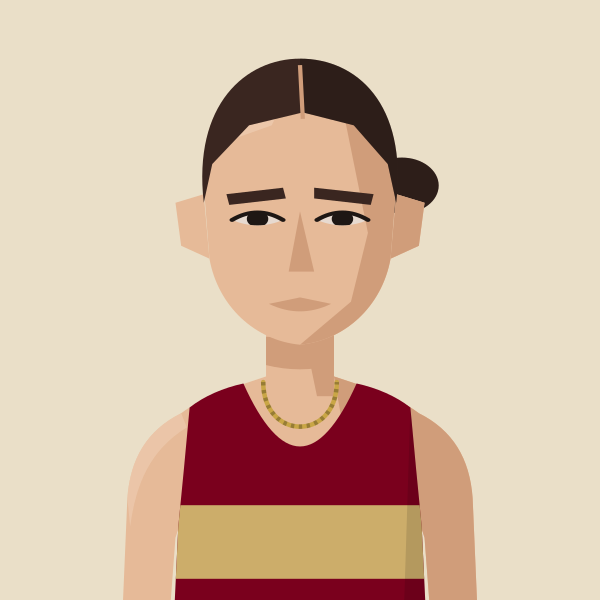
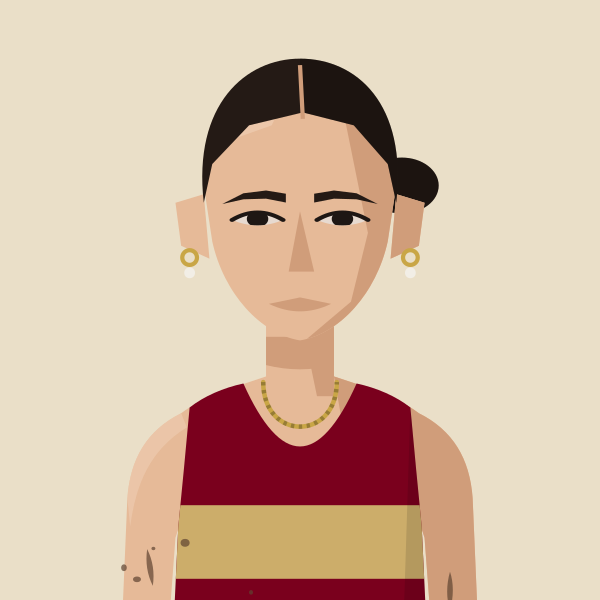
Redraw Mimi Corden-Lloyd: tapered brows, hoop and pearl earrings, narrow face, light mud
Claude-Session: https://claude.ai/code/session_01MgmDWhFqnSSnP4iBLKXUZC

diff --git a/files/index.html b/files/index.html
@@ -718,7 +718,7 @@ return m;})();
 const portraitFile=(name,club)=>{const k=normalizeNameForCompare(name||'').replace(/\s*\(([^)]*)\)$/,(m,c)=>CLUBS[c.toUpperCase()]?'':m);const a=PORTRAITS[k];if(a&&a.club===club)return a.file;const b=PORTRAITS[k+'@'+club];return b?b.file:null;};
 // Athlete header figure: superstar portrait if we have one, else a grey runner in the club vest, else the plain vest icon
 // Changes whenever any portrait changes (set by tools/build_og.py), so browsers fetch fresh images instead of old cached ones
-const PORTRAIT_V='2137e9cf';const PORTRAIT_WOMEN='abbey-brooke,abbie-bulbulian,adele-prince,aimee-hargreaves,aisling-ahern,alex-brown,alex-gandee,alex-marginean,alex-miller,alexa-parker,alexandra-barbour,alice-braham,alice-bridger-morales,alice-crane,alice-martin,alice-reed,alice-smith,alison-purnell,alison-thomson,amy-clements,andrea-barber,anika-schwarze-chintapatla,anna-garnier,anna-garnier-hw,anna-sharp,annabel-hobday,annabelle-hadlow,anne-hegvold,annmarie-seymour,ava-mcandie,becky-briggs,bethan-goddard,bethanie-murray,bethany-brown,betsy-griffiths,billie-mcclosky,camilla-barden,caoimhe-nic-fhogartaigh,carolyne-baxter,catherine-bryson,catherine-eastham,catherine-kandie,cathy-ansell,charlotte-griffiths,chloe-beckett,chloe-tighe,chrissie-wellington,claire-grima,clara-pettit,clare-elms,clare-pauzers,dillan-quinn,dorchie-cockerell,eilidh-hide,elinor-skinner,eliza-grant,elizabeth-apsley,elizabeth-stavreski,ella-fennelly,ella-king-powrie,ella-may-hards,ella-newton,ellie-brown,ellie-freeden,eloise-bull,emilie-arnoux,emily-barrett,emily-bradley,emily-lowery,emily-robbins,emma-gordon,emma-howsham,emma-lord,emma-rowland,estle-viljoen,evie-warren,felicity-cole,felicity-harrison,felicity-hayward,fi-maddocks,fiona-de-mauny,florence-wiggins,gabby-collison,gabriel-reynolds,gemma-newport,genevieve-blanch,georgia-curry,georgie-bruinvels,georgie-fenn,georgie-furze,georgie-grgec,gina-galbraith,grace-leyland,grace-richardson,hannah-edwards,hannah-english,heather-statham,heather-statham-cc,helena-corbin,helena-keenan,holly-nixon,holly-pan,imogen-mackie,imogen-wolsey,iona-cousland,isabel-bradley,isabel-brinsden,isabelle-pickett,isobel-hodder,jennifer-nandi,jennifer-smith,jess-reed,jess-saunders,jess-winfield,jessica-davies,jessica-lowe,jodie-favell,josephine-rhodes,julia-bleasdale,julia-wedmore,juliet-hodder,jurgita-levertaviciute,justine-lynch,karen-fenner,karen-xiang,karina-box,kate-axford,kate-williams,kathy-sharpe,katie-ellen-french,katie-good,katie-snowden,katy-hedgethorne,kitty-shepherd-cross,kristina-popadich,lara-bromilow,lara-mangan,laura-goodson,laura-miles,lauren-major,lea-adamson,lily-newton,lisa-bailey,lisa-thomas,lisa-thomas-hw,lizzie-goldie-scot,louise-cooper,lucy-jones,lucy-macalister,lucy-peters,lydia-blackmore,lydia-gallyer-barnett,maddie-mastrolonardo,maddy-whitman,maeve-kenny,margaret-coogan,martina-conner,mary-james,mary-setyabule,matilde-lomba,megan-gildea,mhairi-hall,mimi-corden-lloyd,molly-oconnor,molly-smith,monika-gajek,naomi-lenane,natalie-beadle,natalie-seymour,natasha-lodge,niamh-thompson,nicky-hayes,nicola-cartlidge,nicola-douglas,nikki-sturzaker,olivia-papaioannou,olivia-stillman,orna-mcginley,pamela-mchutchon,patricia-walker,patrizia-gnoato,penny-oliver,rachel-brown,rebecca-barrow,rebekah-edgar,ruby-carter,ruby-whyte-wilding,ruby-woolfe,sally-urquhart,sam-whiting,samantha-munday,sarah-astin,sarah-dewhirst,sarah-grover,sarah-hanley,sarah-holt,sarah-murphy,sarah-palmer,sarah-palmer-ran,sarah-riceman,sarah-young,saron-haileselase,serena-carter,sophie-cowper,sophie-harris,sophie-hicks,sophie-tooley,stacey-ward,steph-hewitt,steph-mccall,steph-mccall-cc,steph-mccall-slh,steph-mitchell,suzanne-swaine,suze-spalding,suzie-harvey,suzy-whatmough,teresa-murphy,tilly-heaton,tilly-heaton-bel,tish-jones,vic-cartwright,vicky-clarke,victoria-barthelmess,victoria-buck,vikki-filsell,zoe-macdonald,zuzana-nemeckova';const PORTRAIT_MEN='aaron-wilson,abdulla-elsadig,adam-leane,adrian-major,adrien-royer,alan-black,alan-mead,alex-brecker,alex-bruce-littlewood,alex-gutteridge,alex-harris,alex-howard,alex-janiaud,alex-lee,alex-lennon,alex-mills,alex-milne,alex-morales,alex-robinson,alex-yee,alexander-marks,amittai-ben-israel,andrew-cumine,andrew-green,andrew-penney,andrew-perfect,andrew-simms,andrew-warburton,andrius-jaksevicius,andy-coley-maud,andy-coley-maud-cc,andy-fyfe,andy-north,andy-paton,andy-weir,angus-butler,angus-lamb,anisse-ismaili,arlo-ludewick,arne-dumez,arthur-peel,ashley-goncalves,barnaby-day,barry-collins,barry-sawyer,ben-clarke,ben-harding,ben-hurley,ben-ireland,ben-millar,ben-paviour,ben-pearce,ben-racle,ben-revill,ben-reynolds,ben-scott,ben-toomer,benedict-whitby,benjamin-hilson,bernie-ford,bill-kerr,bill-weller,bill-weller-wal,bob-harrison,bob-holt,bob-lunnon,bob-rayman,bob-smith,bradley-courtney-pinn,brandon-dewar,brian-gorman,brian-wilder,caleb-hathaway,callum-stewart,cameron-dockerill,cameron-reilly,carl-delaney,charles-herrington,charlie-dabbs,charlie-dickinson,charlie-eastaugh,charlie-manning,charlie-pickett,charlie-rogers,charlie-sandison,charlie-walker,charlie-wyllie,che-compton,chris-busaileh,chris-busaileh-hhh,chris-greenwood,chris-keavey,chris-moss,chris-steer,chris-threadgold,chris-warren,christian-lee,christopher-parker,clive-gilby,clive-shippen,colin-high,colin-pearson,conall-mcnally,conall-whelan,craig-ruddy,dame-dibaba,dan-cliffe,dan-pettitt,daniel-shaw,daniel-wolff,dave-beard,dave-beaver,dave-glassborow,dave-holt,dave-taylor,david-anderson,david-bowers,david-grima,david-north,david-ogden,david-symons,david-walsh,david-williams,deron-fagan,dick-piotrowski,dimos-evangelidis,dominic-kiralyfi,don-anderson,don-faircloth,don-maclean,doug-maughan,duncan-rimmer,dylan-evans,dylan-mitchard,ed-brewer,ed-catmur,ed-gibson,ed-mallett,eddie-herridge,eddie-jodrell,eddie-rolls,edward-chuck,eoin-brady,eoin-molloy,ethan-mccolgan,falilou-kebe,findlay-dyer,finn-johnson,fintan-pearce,frank-tickner,frank-ward,fred-paget,fred-slemeck,freddie-hessian,garret-lee,gary-ribbons,gary-ribbons-ee,gary-staines,gavin-eccles,geoff-biscoe,geoff-jerwood,geoff-north,george-cotton,george-gathercole,george-jackson,george-loxton,george-mallett,george-ogden,gerry-adams,gerry-north,glen-keegan,gordon-pearce,graham-macky,harrison-hayman,harry-guttridge,hector-revill,henry-hart,henry-silverstein,hugo-hewitt,ian-acreman,ian-crowe-wright,ian-ellwood,ian-harkness,indy-barnes,isaac-lutaya,isaac-parker,jack-brotchie,jack-dickson,jack-dormer,jack-hampshire,jack-harrison,jack-hobden,jack-kavanagh,jack-millar,jack-ramm,jack-woods,jacob-brockmann,jake-simmonds,james-bartram,james-blackwood,james-bowler,james-estall,james-ewing,james-fox,james-hancock,james-harvey,james-hoad,james-kelly,james-mcmullan,james-murray,james-nutt,james-preston,james-roberts,james-stockings,james-ward,james-wootton,jamie-crowe,jamie-parkinson,jared-martin,jean-paul-wright,jeff-cunningham,jeremy-dempsey,jermaine-mays,jerry-watson,jim-allchin,jim-rimmer,joe-english,joe-hartley,john-baker,john-bicourt,john-bromley,john-davies,john-dear,john-foss,john-foxall,john-gilbert,john-gladwin,john-hutchins,john-kendall,john-kimaiyo,john-lee,john-lethbridge,john-mather,john-moore,john-roberts,john-sanderson,john-stow,john-sullivan,john-thresher,jon-hobbs,jon-pepper,jon-pepper-slh,jon-phillips,jon-solly,jonathan-cocker,jonathan-collier,jonathan-cornish,jonathan-ratcliffe,jonathan-tipper,jonathon-blackledge,jonny-neville,jonny-scott,jordan-weaver,josh-mitchell,josh-snow,josh-trigwell,jules-gevers,junior-galley,justin-chaston,justin-reid,kassa-tadesse,keith-newton,kevin-nash,kevin-quinn,kevin-sturman,kieran-barnes,kieran-white,knut-hegvold,knut-hegvold-bel,larry-ryan,lawrence-avery,lee-lintern,lewis-lloyd,liam-burthem,lionel-mann,lloyd-kempson,luke-caldwell,mack-downie,malachi-byansi,marcello-bizio,marcelo-fortes,marco-mazzotta,mark-anderson,mark-miles,mark-sinclair,mark-tennyson,mark-waller,martin-dent,martin-lake,martin-lewington,martin-shore,mathew-speed,matt-chaston,matt-jones,matt-wood,matthew-edgar,matthew-houchell,matthew-thomas,matthew-varley,max-bloor,max-heyden,max-milarvie,max-nicholls,michael-baker,michael-mccarthy,mick-woods,mike-beevor,mike-boyle,mike-cummings,mike-farmery,mike-fuller,mike-hayes,mike-kortenray,mike-nouch,mohammed-ismail,monty-hudson,morgan-roberts,nathan-visick,neil-chisholm,neil-phillips,neil-speaight,neil-wilson,nic-lukies,nick-acfield,nick-altmann,nick-bester,nick-bester-hhh,nick-buckle,nick-bundle,nick-goolab,nick-lightfoot,nick-morris,nick-torry,noah-fernandez,norman-stairs,oli-carrington,oliver-carrington,oliver-fox,oliver-reynolds,oliver-young,ollie-foote,ollie-garrod,olly-buck,owen-hind,paddy-roddy,pancho-panchev,paskar-owor,pat-newell,patrick-mcdougall,paul-calver,paul-cheetham,paul-freary,paul-magner,paul-pollock,pete-carton,pete-gardner,peter-clarke,peter-giles,peter-giles-thh,peter-lighting,phil-carstairs,phil-sanders,phil-sesemann,phil-swinburn,phil-wicks,phil-woodford-smith,raj-paranandi,ralph-street,ranjit-bhatia,ray-foley,reece-edwards,rhys-boorman,rian-mccawley,richard-ashe,richard-giles,richard-henderson,richard-langley,richard-mcdowell,richard-ollington,richard-partridge,richard-sun,richard-ward,rob-armstrong,rob-kelly,rob-tuer,robert-elphick,robert-laing,robert-norville,robert-peacock,robert-sesemann,robin-boon,robin-hudson,roger-alsop,roger-alsop-bel,ron-clark,ron-linstead,ronan-tanguy,rory-mcmahon,rory-orsborn,ross-christie,rowan-board,rowan-crichton,russell-dessaix-chin,ryan-hickey,ryan-mccallister,sam-bramwell,sam-charlton,sam-gebreselassie,sam-peters,sam-sommerville,sam-tyas,samuel-dames,samuel-wilcock,sean-cordon,sebastian-anthony,simon-baines,simon-coombes,simon-coppard,simon-holmes,simon-rayner,simon-rayner-hw,simon-wade,simon-wade-hhh,simon-waterhouse,simon-williams,simon-wurr,sonny-nicoll,spencer-barden,stephen-mcleod,stephen-sharp,steve-gardner,steve-jones,steve-smythe,steve-smythe-hhh,stuart-beaney,stuart-major,stuart-major-thh,stuart-mccallum,stuart-paton,terry-booth,thomas-dugre,thomas-gandee,thomas-gardner,thomas-renshaw,tim-alexander,tim-eglen,tim-lawrence,tim-watson,toby-cooke,toby-fletcher,tom-austin,tom-cheetham,tom-conlon,tom-davies,tom-gifford,tom-jervis,tom-lole,tom-south,tom-thornley,tommy-taylor,tony-binda,tony-fairclough,tony-harran,trevor-hart,valdis-pauzers,valentin-rigori,vic-maughan,will-cockerell,will-lewis,will-marshall,will-scott,will-stockley,william-gardner,yacin-yusuf,zach-nolan';
+const PORTRAIT_V='cd870613';const PORTRAIT_WOMEN='abbey-brooke,abbie-bulbulian,adele-prince,aimee-hargreaves,aisling-ahern,alex-brown,alex-gandee,alex-marginean,alex-miller,alexa-parker,alexandra-barbour,alice-braham,alice-bridger-morales,alice-crane,alice-martin,alice-reed,alice-smith,alison-purnell,alison-thomson,amy-clements,andrea-barber,anika-schwarze-chintapatla,anna-garnier,anna-garnier-hw,anna-sharp,annabel-hobday,annabelle-hadlow,anne-hegvold,annmarie-seymour,ava-mcandie,becky-briggs,bethan-goddard,bethanie-murray,bethany-brown,betsy-griffiths,billie-mcclosky,camilla-barden,caoimhe-nic-fhogartaigh,carolyne-baxter,catherine-bryson,catherine-eastham,catherine-kandie,cathy-ansell,charlotte-griffiths,chloe-beckett,chloe-tighe,chrissie-wellington,claire-grima,clara-pettit,clare-elms,clare-pauzers,dillan-quinn,dorchie-cockerell,eilidh-hide,elinor-skinner,eliza-grant,elizabeth-apsley,elizabeth-stavreski,ella-fennelly,ella-king-powrie,ella-may-hards,ella-newton,ellie-brown,ellie-freeden,eloise-bull,emilie-arnoux,emily-barrett,emily-bradley,emily-lowery,emily-robbins,emma-gordon,emma-howsham,emma-lord,emma-rowland,estle-viljoen,evie-warren,felicity-cole,felicity-harrison,felicity-hayward,fi-maddocks,fiona-de-mauny,florence-wiggins,gabby-collison,gabriel-reynolds,gemma-newport,genevieve-blanch,georgia-curry,georgie-bruinvels,georgie-fenn,georgie-furze,georgie-grgec,gina-galbraith,grace-leyland,grace-richardson,hannah-edwards,hannah-english,heather-statham,heather-statham-cc,helena-corbin,helena-keenan,holly-nixon,holly-pan,imogen-mackie,imogen-wolsey,iona-cousland,isabel-bradley,isabel-brinsden,isabelle-pickett,isobel-hodder,jennifer-nandi,jennifer-smith,jess-reed,jess-saunders,jess-winfield,jessica-davies,jessica-lowe,jodie-favell,josephine-rhodes,julia-bleasdale,julia-wedmore,juliet-hodder,jurgita-levertaviciute,justine-lynch,karen-fenner,karen-xiang,karina-box,kate-axford,kate-williams,kathy-sharpe,katie-ellen-french,katie-good,katie-snowden,katy-hedgethorne,kitty-shepherd-cross,kristina-popadich,lara-bromilow,lara-mangan,laura-goodson,laura-miles,lauren-major,lea-adamson,lily-newton,lisa-bailey,lisa-thomas,lisa-thomas-hw,lizzie-goldie-scot,louise-cooper,lucy-jones,lucy-macalister,lucy-peters,lydia-blackmore,lydia-gallyer-barnett,maddie-mastrolonardo,maddy-whitman,maeve-kenny,margaret-coogan,martina-conner,mary-james,mary-setyabule,matilde-lomba,megan-gildea,mhairi-hall,mimi-corden-lloyd,molly-oconnor,molly-smith,monika-gajek,naomi-lenane,natalie-beadle,natalie-seymour,natasha-lodge,niamh-thompson,nicky-hayes,nicola-cartlidge,nicola-douglas,nikki-sturzaker,olivia-papaioannou,olivia-stillman,orna-mcginley,pamela-mchutchon,patricia-walker,patrizia-gnoato,penny-oliver,rachel-brown,rebecca-barrow,rebekah-edgar,ruby-carter,ruby-whyte-wilding,ruby-woolfe,sally-urquhart,sam-whiting,samantha-munday,sarah-astin,sarah-dewhirst,sarah-grover,sarah-hanley,sarah-holt,sarah-murphy,sarah-palmer,sarah-palmer-ran,sarah-riceman,sarah-young,saron-haileselase,serena-carter,sophie-cowper,sophie-harris,sophie-hicks,sophie-tooley,stacey-ward,steph-hewitt,steph-mccall,steph-mccall-cc,steph-mccall-slh,steph-mitchell,suzanne-swaine,suze-spalding,suzie-harvey,suzy-whatmough,teresa-murphy,tilly-heaton,tilly-heaton-bel,tish-jones,vic-cartwright,vicky-clarke,victoria-barthelmess,victoria-buck,vikki-filsell,zoe-macdonald,zuzana-nemeckova';const PORTRAIT_MEN='aaron-wilson,abdulla-elsadig,adam-leane,adrian-major,adrien-royer,alan-black,alan-mead,alex-brecker,alex-bruce-littlewood,alex-gutteridge,alex-harris,alex-howard,alex-janiaud,alex-lee,alex-lennon,alex-mills,alex-milne,alex-morales,alex-robinson,alex-yee,alexander-marks,amittai-ben-israel,andrew-cumine,andrew-green,andrew-penney,andrew-perfect,andrew-simms,andrew-warburton,andrius-jaksevicius,andy-coley-maud,andy-coley-maud-cc,andy-fyfe,andy-north,andy-paton,andy-weir,angus-butler,angus-lamb,anisse-ismaili,arlo-ludewick,arne-dumez,arthur-peel,ashley-goncalves,barnaby-day,barry-collins,barry-sawyer,ben-clarke,ben-harding,ben-hurley,ben-ireland,ben-millar,ben-paviour,ben-pearce,ben-racle,ben-revill,ben-reynolds,ben-scott,ben-toomer,benedict-whitby,benjamin-hilson,bernie-ford,bill-kerr,bill-weller,bill-weller-wal,bob-harrison,bob-holt,bob-lunnon,bob-rayman,bob-smith,bradley-courtney-pinn,brandon-dewar,brian-gorman,brian-wilder,caleb-hathaway,callum-stewart,cameron-dockerill,cameron-reilly,carl-delaney,charles-herrington,charlie-dabbs,charlie-dickinson,charlie-eastaugh,charlie-manning,charlie-pickett,charlie-rogers,charlie-sandison,charlie-walker,charlie-wyllie,che-compton,chris-busaileh,chris-busaileh-hhh,chris-greenwood,chris-keavey,chris-moss,chris-steer,chris-threadgold,chris-warren,christian-lee,christopher-parker,clive-gilby,clive-shippen,colin-high,colin-pearson,conall-mcnally,conall-whelan,craig-ruddy,dame-dibaba,dan-cliffe,dan-pettitt,daniel-shaw,daniel-wolff,dave-beard,dave-beaver,dave-glassborow,dave-holt,dave-taylor,david-anderson,david-bowers,david-grima,david-north,david-ogden,david-symons,david-walsh,david-williams,deron-fagan,dick-piotrowski,dimos-evangelidis,dominic-kiralyfi,don-anderson,don-faircloth,don-maclean,doug-maughan,duncan-rimmer,dylan-evans,dylan-mitchard,ed-brewer,ed-catmur,ed-gibson,ed-mallett,eddie-herridge,eddie-jodrell,eddie-rolls,edward-chuck,eoin-brady,eoin-molloy,ethan-mccolgan,falilou-kebe,findlay-dyer,finn-johnson,fintan-pearce,frank-tickner,frank-ward,fred-paget,fred-slemeck,freddie-hessian,garret-lee,gary-ribbons,gary-ribbons-ee,gary-staines,gavin-eccles,geoff-biscoe,geoff-jerwood,geoff-north,george-cotton,george-gathercole,george-jackson,george-loxton,george-mallett,george-ogden,gerry-adams,gerry-north,glen-keegan,gordon-pearce,graham-macky,harrison-hayman,harry-guttridge,hector-revill,henry-hart,henry-silverstein,hugo-hewitt,ian-acreman,ian-crowe-wright,ian-ellwood,ian-harkness,indy-barnes,isaac-lutaya,isaac-parker,jack-brotchie,jack-dickson,jack-dormer,jack-hampshire,jack-harrison,jack-hobden,jack-kavanagh,jack-millar,jack-ramm,jack-woods,jacob-brockmann,jake-simmonds,james-bartram,james-blackwood,james-bowler,james-estall,james-ewing,james-fox,james-hancock,james-harvey,james-hoad,james-kelly,james-mcmullan,james-murray,james-nutt,james-preston,james-roberts,james-stockings,james-ward,james-wootton,jamie-crowe,jamie-parkinson,jared-martin,jean-paul-wright,jeff-cunningham,jeremy-dempsey,jermaine-mays,jerry-watson,jim-allchin,jim-rimmer,joe-english,joe-hartley,john-baker,john-bicourt,john-bromley,john-davies,john-dear,john-foss,john-foxall,john-gilbert,john-gladwin,john-hutchins,john-kendall,john-kimaiyo,john-lee,john-lethbridge,john-mather,john-moore,john-roberts,john-sanderson,john-stow,john-sullivan,john-thresher,jon-hobbs,jon-pepper,jon-pepper-slh,jon-phillips,jon-solly,jonathan-cocker,jonathan-collier,jonathan-cornish,jonathan-ratcliffe,jonathan-tipper,jonathon-blackledge,jonny-neville,jonny-scott,jordan-weaver,josh-mitchell,josh-snow,josh-trigwell,jules-gevers,junior-galley,justin-chaston,justin-reid,kassa-tadesse,keith-newton,kevin-nash,kevin-quinn,kevin-sturman,kieran-barnes,kieran-white,knut-hegvold,knut-hegvold-bel,larry-ryan,lawrence-avery,lee-lintern,lewis-lloyd,liam-burthem,lionel-mann,lloyd-kempson,luke-caldwell,mack-downie,malachi-byansi,marcello-bizio,marcelo-fortes,marco-mazzotta,mark-anderson,mark-miles,mark-sinclair,mark-tennyson,mark-waller,martin-dent,martin-lake,martin-lewington,martin-shore,mathew-speed,matt-chaston,matt-jones,matt-wood,matthew-edgar,matthew-houchell,matthew-thomas,matthew-varley,max-bloor,max-heyden,max-milarvie,max-nicholls,michael-baker,michael-mccarthy,mick-woods,mike-beevor,mike-boyle,mike-cummings,mike-farmery,mike-fuller,mike-hayes,mike-kortenray,mike-nouch,mohammed-ismail,monty-hudson,morgan-roberts,nathan-visick,neil-chisholm,neil-phillips,neil-speaight,neil-wilson,nic-lukies,nick-acfield,nick-altmann,nick-bester,nick-bester-hhh,nick-buckle,nick-bundle,nick-goolab,nick-lightfoot,nick-morris,nick-torry,noah-fernandez,norman-stairs,oli-carrington,oliver-carrington,oliver-fox,oliver-reynolds,oliver-young,ollie-foote,ollie-garrod,olly-buck,owen-hind,paddy-roddy,pancho-panchev,paskar-owor,pat-newell,patrick-mcdougall,paul-calver,paul-cheetham,paul-freary,paul-magner,paul-pollock,pete-carton,pete-gardner,peter-clarke,peter-giles,peter-giles-thh,peter-lighting,phil-carstairs,phil-sanders,phil-sesemann,phil-swinburn,phil-wicks,phil-woodford-smith,raj-paranandi,ralph-street,ranjit-bhatia,ray-foley,reece-edwards,rhys-boorman,rian-mccawley,richard-ashe,richard-giles,richard-henderson,richard-langley,richard-mcdowell,richard-ollington,richard-partridge,richard-sun,richard-ward,rob-armstrong,rob-kelly,rob-tuer,robert-elphick,robert-laing,robert-norville,robert-peacock,robert-sesemann,robin-boon,robin-hudson,roger-alsop,roger-alsop-bel,ron-clark,ron-linstead,ronan-tanguy,rory-mcmahon,rory-orsborn,ross-christie,rowan-board,rowan-crichton,russell-dessaix-chin,ryan-hickey,ryan-mccallister,sam-bramwell,sam-charlton,sam-gebreselassie,sam-peters,sam-sommerville,sam-tyas,samuel-dames,samuel-wilcock,sean-cordon,sebastian-anthony,simon-baines,simon-coombes,simon-coppard,simon-holmes,simon-rayner,simon-rayner-hw,simon-wade,simon-wade-hhh,simon-waterhouse,simon-williams,simon-wurr,sonny-nicoll,spencer-barden,stephen-mcleod,stephen-sharp,steve-gardner,steve-jones,steve-smythe,steve-smythe-hhh,stuart-beaney,stuart-major,stuart-major-thh,stuart-mccallum,stuart-paton,terry-booth,thomas-dugre,thomas-gandee,thomas-gardner,thomas-renshaw,tim-alexander,tim-eglen,tim-lawrence,tim-watson,toby-cooke,toby-fletcher,tom-austin,tom-cheetham,tom-conlon,tom-davies,tom-gifford,tom-jervis,tom-lole,tom-south,tom-thornley,tommy-taylor,tony-binda,tony-fairclough,tony-harran,trevor-hart,valdis-pauzers,valentin-rigori,vic-maughan,will-cockerell,will-lewis,will-marshall,will-scott,will-stockley,william-gardner,yacin-yusuf,zach-nolan';
 // Runners whose dog pops up on their own profile page (a -dog.svg version of their portrait)
 const PROFILE_DOGS=new Set(['john-sanderson','penny-oliver','james-hancock','angus-butler']);
 const AthletePortrait=({name,club,w,fill,onClick,blink})=>{const[failed,setFailed]=useState(false);const file=portraitFile(name,club);const src0=file?`/portraits/athletes/${file}.svg?v=${PORTRAIT_V}`:PORTRAIT_CLUBS.has(club)?`/portraits/clubs/${club.replace(/\//g,'').replace(/&/g,'and')}.svg?v=${PORTRAIT_V}`:null;const blinkSrc=useBlinkSrc(file?(PROFILE_DOGS.has(file)?`/portraits/athletes/${file}-dog.svg?v=${PORTRAIT_V}`:src0):null,!!blink);const src=blinkSrc||src0;if(!src||failed)return<div onClick={onClick} className={onClick?'cursor-pointer':''}><ClubShield club={club} size={w}/></div>;const h=Math.round(w*148/126),ih=Math.round(w*1.4);if(fill)return<div onClick={onClick} className="cursor-pointer" style={{alignSelf:'stretch',minHeight:h,aspectRatio:'126 / 148',flexShrink:0,position:'relative',borderRadius:4,overflow:'hidden'}}><img src={src} alt={file?`Portrait of ${name.replace(/\s*\([^)]*\)$/,'')}`:`Runner in ${CLUBS[club]?.name||club} vest`} style={{position:'absolute',top:0,left:0,display:'block',width:'100%',height:'auto'}} onError={()=>setFailed(true)}/></div>;return<div style={{width:w,height:h,borderRadius:4,overflow:'hidden',flexShrink:0}}><img src={src} alt={file?`Portrait of ${name.replace(/\s*\([^)]*\)$/,'')}`:`Runner in ${CLUBS[club]?.name||club} vest`} width={w} height={ih} style={{display:'block',width:w,height:ih}} onError={()=>setFailed(true)}/></div>;};

diff --git a/tools/gen_portraits.py b/tools/gen_portraits.py
@@ -918,7 +918,6 @@ save("samantha-munday", figure("BEL", skin=1, hair="plait", hair_colour="#4A3226
 save("holly-nixon", figure("BEL", skin=1, hair="ponytail", hair_colour="#C9A35F", necklace="#D4D4D4"))
 save("sophie-harris", figure("BEL", skin=1, hair="plait", hair_colour="#6B4A32"))
 save("isabel-brinsden", figure("E&E", skin=1, hair="wavytie", hair_colour="#C46A34"))
-save("mimi-corden-lloyd", figure("BEL", skin=2, hair="tightbun", hair_colour="#3A2620", necklace="#C9A646", parting=True))
 save("steph-hewitt", figure("BEL", skin=1, hair="ponytail", hair_colour="#3A2620"))
 save("david-bowers", figure("BEL", skin=1, hair="buzzrecede", hair_colour="#C98A55", facial="stubble", facial_colour="#B8703E", brow_colour="#B8804E"))
 save("stuart-major", figure("SLH", skin=1, hair="quiff", hair_colour="#8A6440"))
@@ -1623,4 +1622,31 @@ save("angus-butler-dog", with_cockapoo(ANGUS(), cy=188))
 SITE_NAMES["angus-butler-dog"] = "angus-butler-dog"
 # Tish Jones (BEL), Oct 2026: wavy light-brown ponytail, narrow lean face, flushed cheeks (no visor, no shades)
 save("tish-jones", figure("BEL", skin=1, hair="wavytie", hair_colour="#9A7048", jaw="narrow", gaunt=True, rosy=True))
+# ---- Brow, earring and light-mud helpers (Oct 2026, first used for Mimi Corden-Lloyd) ----
+import re as _rm
+def archbrows(svg, col=None, lift=0):
+    """Fuller, softly arched brows set low over the eyes (replaces the default brow pair)."""
+    m=_rm.search(r'<g fill="(#[0-9A-Fa-f]{3,6})"><polygon points="74,100 94,97 95,102 75,105"/><polygon points="105,97 126,100 125,105 105,102"/></g>', svg)
+    if not m: return svg
+    c=col or m.group(1)
+    L=f"95,99.8 88,{98.3-lift} 80,99.6 72.5,104.6 80,102.4 88,102.1 95,103.9"
+    R=f"105,99.8 112,{98.3-lift} 120,99.6 127.5,104.6 120,102.4 112,102.1 105,103.9"
+    return svg[:m.start()]+f'<g fill="{c}"><polygon points="{L}"/><polygon points="{R}"/></g>'+svg[m.end():]
+def earrings(svg, col="#C9A646", pearl=False):
+    """Small gold huggie hoops on both ear lobes (optional pearl drop)."""
+    e=f'<g fill="none" stroke="{col}" stroke-width="1.5"><circle cx="61" cy="111" r="2.6"/><circle cx="139" cy="111" r="2.6"/></g>'
+    if pearl: e+='<g fill="#F2EEE6"><circle cx="61" cy="116.4" r="1.9"/><circle cx="139" cy="116.4" r="1.9"/></g>'
+    return svg.replace('</svg>', e+'</svg>', 1)
+def skinmud(svg, seed=7):
+    """Light cross-country mud: a few flecks and streaks on the arms and the vest (none on the face or neck)."""
+    import random
+    r=random.Random(seed); o=[]
+    for (x0,x1,y0,y1,n) in [(34,60,206,330,9),(140,166,206,330,9),(74,126,216,330,12)]:
+        for _ in range(n):
+            x=r.uniform(x0,x1); y=r.uniform(y0,y1); rx=r.uniform(.6,1.8); o.append(f'<ellipse cx="{x:.1f}" cy="{y:.1f}" rx="{rx:.1f}" ry="{rx*r.uniform(.7,1.3):.1f}"/>')
+    o.append('<path d="M46,214 q3,6 2,13 q-3,-6 -2,-13 Z"/><path d="M153,222 q-2,7 0,14 q2,-8 0,-14 Z"/>')
+    return svg.replace('</svg>', '<g fill="#5E4330" opacity=".7">'+''.join(o)+'</g></svg>', 1)
+# Mimi Corden-Lloyd, redrawn Oct 2026: narrow face, dark slicked-back hair with centre parting in a bun, brows tapering to the temples,
+# gold hoops through the earlobes with pearl drops, gold chain, a little cross-country mud on the arms
+save("mimi-corden-lloyd", skinmud(earrings(archbrows(figure("BEL", skin=2, hair="tightbun", hair_colour="#241A15", necklace="#C9A646", parting=True, jaw="narrow")), pearl=True)))
 export_site()
